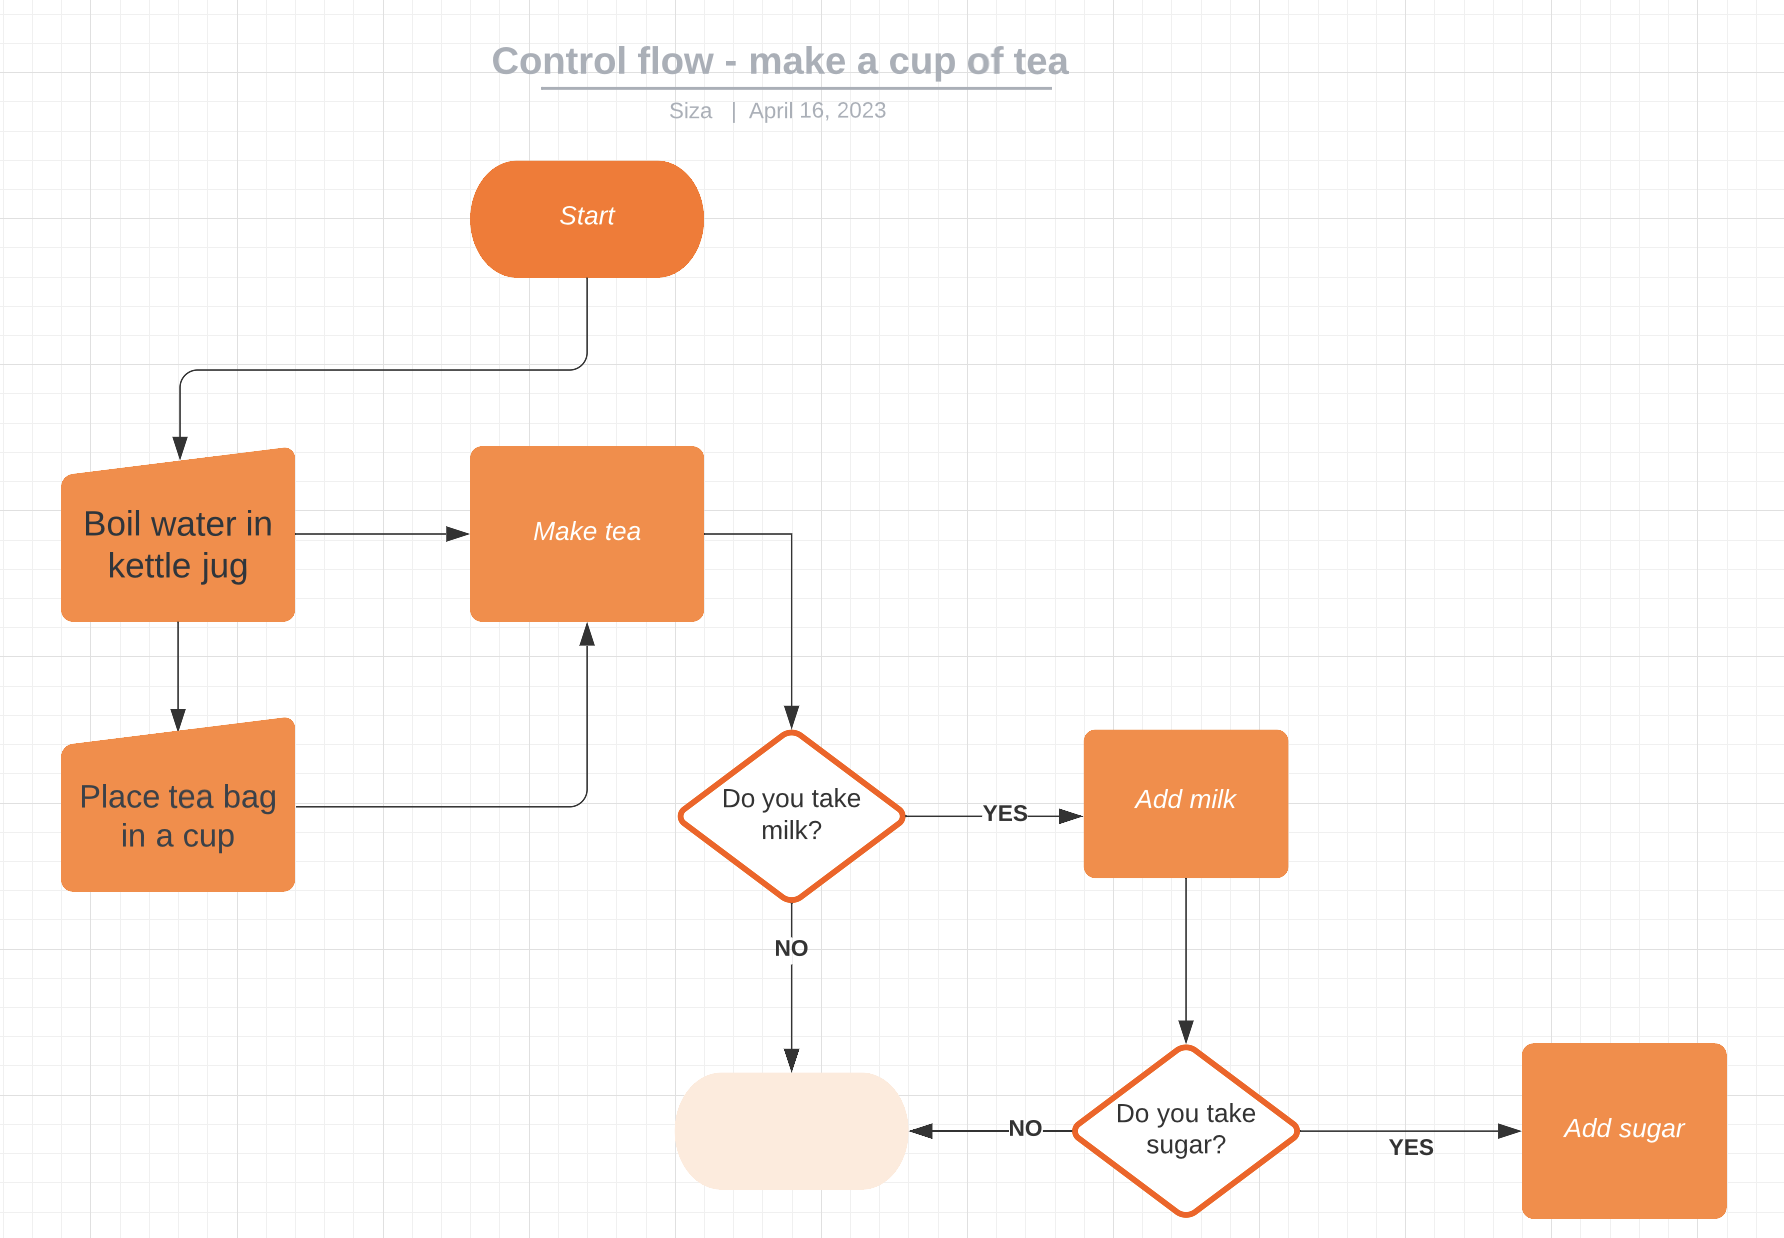
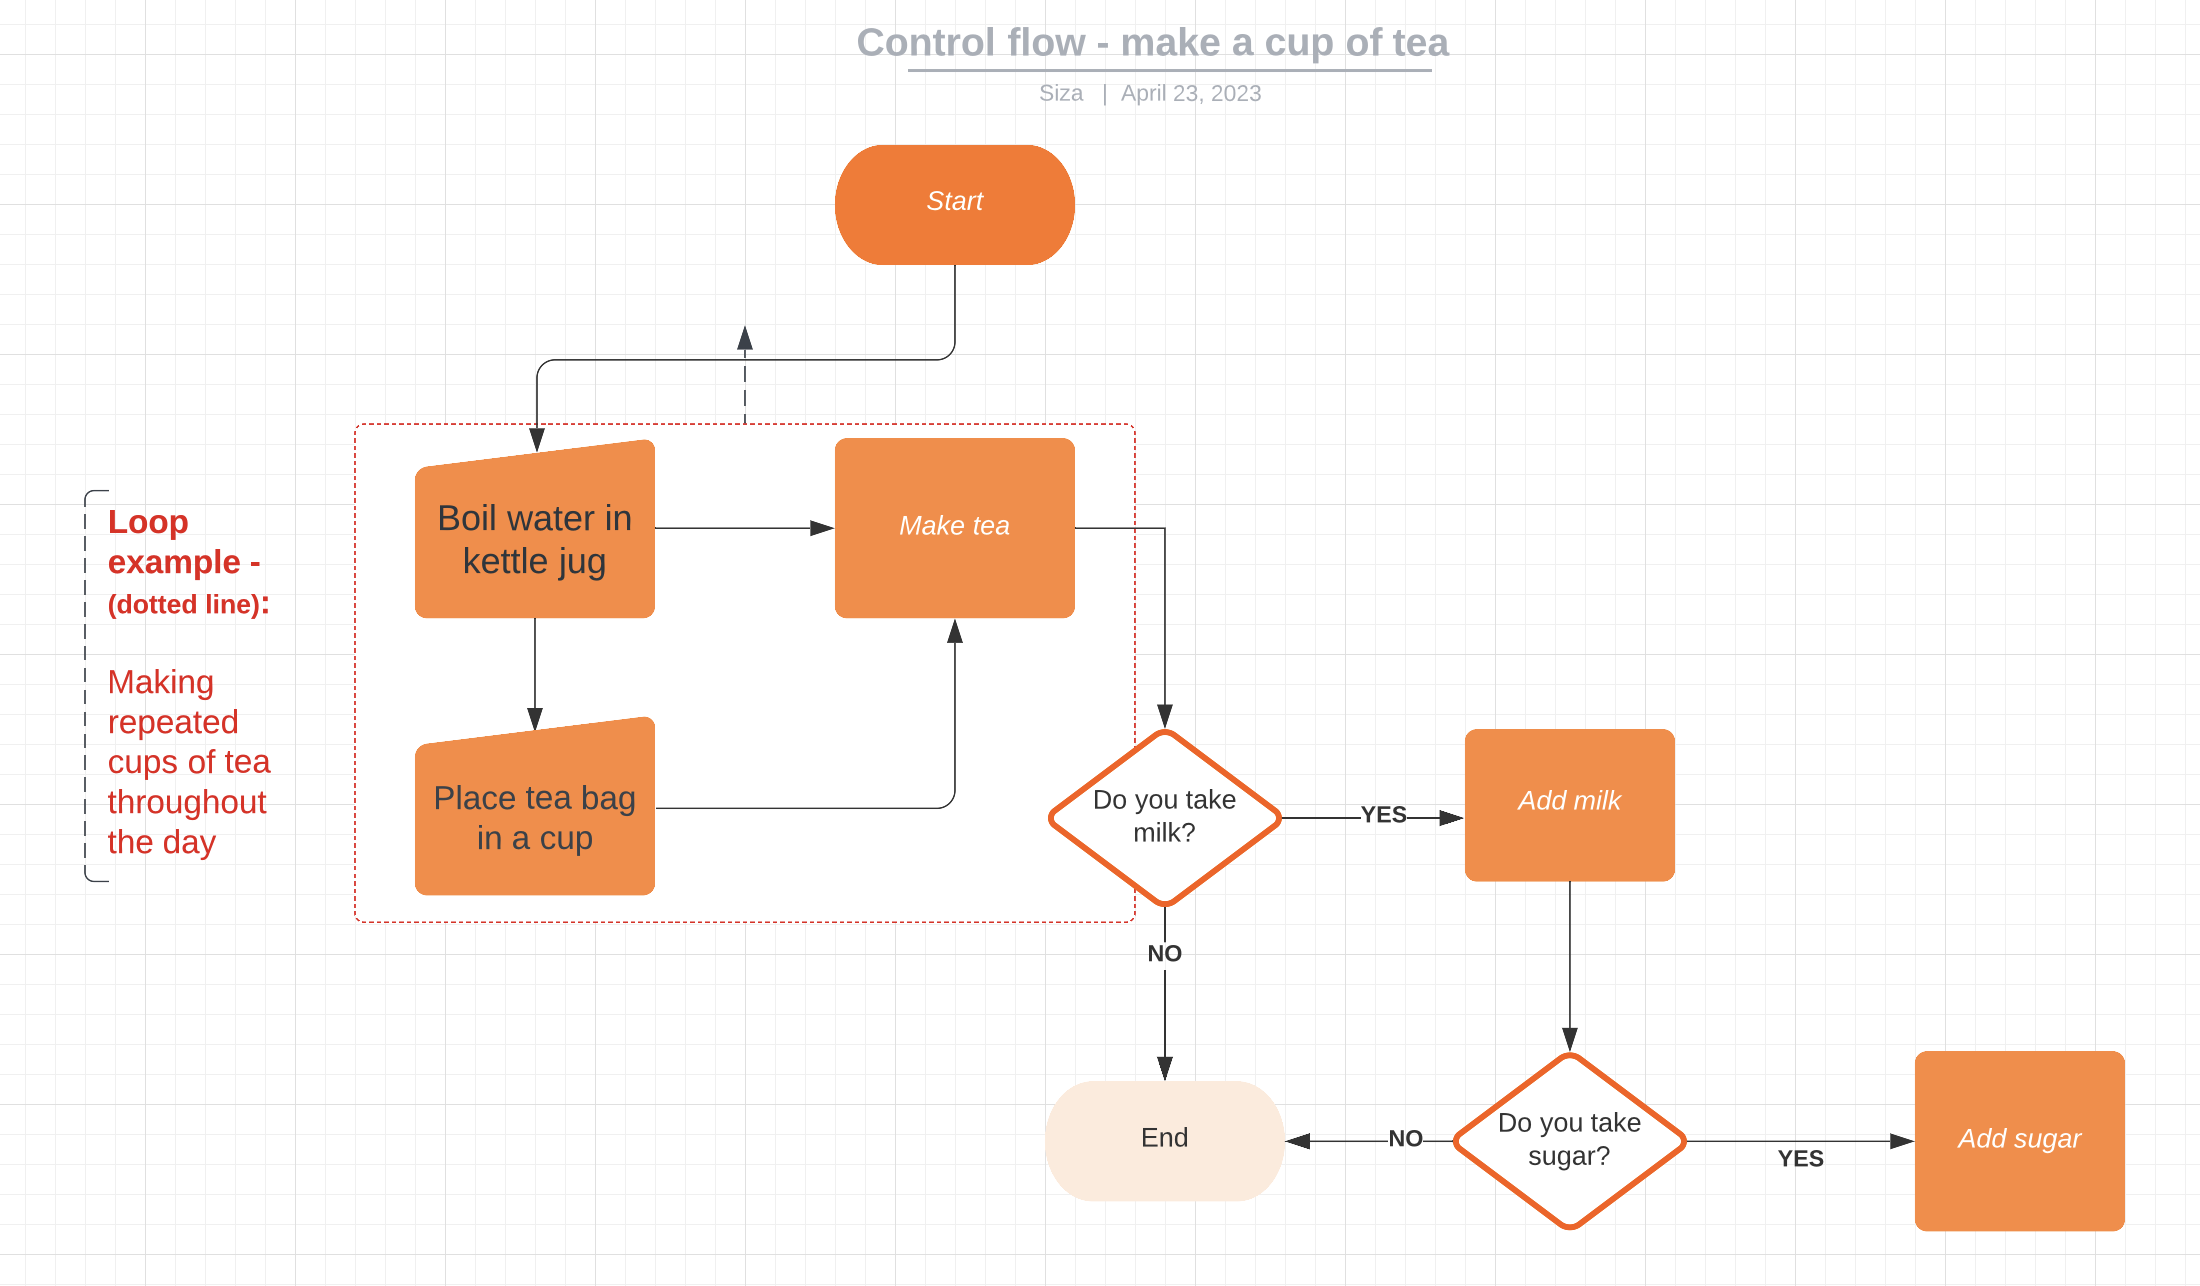
Update control flow diagram with Loop explanation

diff --git a/blog/javascript-dom.html b/blog/javascript-dom.html
@@ -70,10 +70,9 @@
             class="screen-shot"
           />
           <p>
-            Loops represent decisions within control flow. A loop is just that:
-            it has a starting point and and ending point. In between the start
-            and end points, the outcome of decisions made, determines the path
-            taken to reach the decision.
+            Conditions represent decisions within control flow. Loops are
+            repeated steps in the control flow. In the diagram above, making
+            cups of tea throughout the day, is an example of a loop.
           </p>
         </div>
 
